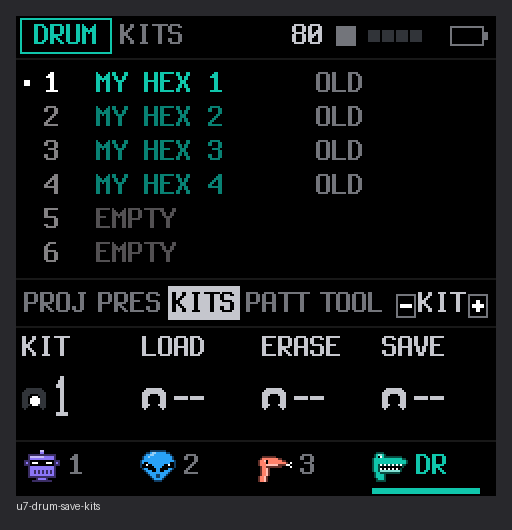
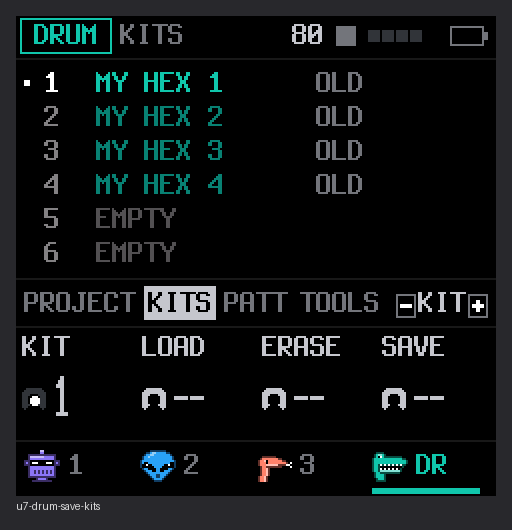
U6 (drum part): on the drum voice SAVE > PRESETS points to KITS (the drums' SAVE: PROJECT KITS PATTERNS TOOLS); the drum voice selected on a synth voice's PRESETS or USER lands on KITS
Claude-Session: https://claude.ai/code/session_01XcKDzzW9aw58RdBnowjoVw

Changed region(s): [[0.1562, 0.5132, 0.75, 0.6038]]

diff --git a/tests/ui_pages_test.c b/tests/ui_pages_test.c
@@ -5364,8 +5364,8 @@ int main(int argc, char **argv)
         check(pkit.base == kit_src(8) && kit_changed() && pkit.s[2].snd[7] == 20u, "w12: SAVE + OCT-: the changed kit back, its edit in it");
         /* SAVE > KITS */
         frames(40);                                       /* (the knobs wait a moment after a layer: #39) */
-        tap(B_SAVE); tap(B_SAVE); tap(B_SAVE); frames(40);
-        check(cur_cat() == CT_KITS, "w12: SAVE three times: KITS (after PROJECT, PRESETS; U7: no USER on the drums)");
+        tap(B_SAVE); tap(B_SAVE); frames(40);
+        check(cur_cat() == CT_KITS, "w12: SAVE twice: KITS (after PROJECT; U6: PRESETS is KITS on the drums, U7: no USER)");
         {   /* (review 26 Nov, U7, Ben's picker "Skip USER on drums") SAVE's walk on the drum voice leaves USER out; a synth
              * voice's keeps it */
             uint32_t j2, user = 0, ng2;
@@ -5377,8 +5377,21 @@ int main(int argc, char **argv)
             for (j2 = 0; j2 < ng2 + 1u; j2++) { tap(B_SAVE); frames(2); user += cur_cat() == CT_USER; }
             check(user >= 1u, "U7: ... a synth voice's SAVE still has USER");
             track_select(TRK_DRUM); frames(2);
-            go_home(); frames(40); tap(B_SAVE); tap(B_SAVE); tap(B_SAVE); frames(40);
+            go_home(); frames(40); tap(B_SAVE); tap(B_SAVE); frames(40);
             ui.force = 1; frame(); ppm("u7-drum-save-kits");
+            {   /* (review 26 Nov, U6, Ben's picker "One home each") on the drums SAVE > PRESETS points to KITS: one place
+                 * under SAVE for whole kits; a synth voice's PRESETS (or USER) with the drums then selected: KITS */
+                uint32_t j3, pres = 0, ng3, okk = 1, pp = NPAGES;
+                const uint8_t *g3 = nav_group(B_SAVE, &ng3);
+                for (j3 = 0; j3 < ng3; j3++) pres += g3[j3] == CT_PRESETS || g3[j3] == CT_USER;
+                for (j3 = 0; j3 < NPAGES; j3++) if (PAGES[j3].cat == CT_PRESETS) pp = j3;
+                nav_go(CT_PRESETS, 0); frames(2); okk &= cur_cat() == CT_KITS;
+                track_select(0); frames(2); nav_go(CT_PRESETS, 0); frames(2); okk &= ui.page == pp;
+                track_select(TRK_DRUM); frames(2); okk &= cur_cat() == CT_KITS;
+                track_select(0); frames(2); nav_go(CT_USER, 0); frames(2); okk &= cur_cat() == CT_USER;
+                track_select(TRK_DRUM); frames(2); okk &= cur_cat() == CT_KITS;
+                check(!pres && okk, "U6: the drums' SAVE: PROJECT KITS PATTERNS TOOLS; PRESETS points to KITS (from a synth voice's PRESETS or USER too)");
+            }
         }
         ui.force = 1; frame(); ppm("w12-save-kits");
         encs[panel.enc[EN_K4]] = 1; frame();

diff --git a/firmware/src/ui_nav.c b/firmware/src/ui_nav.c
@@ -35,9 +35,11 @@ static const uint8_t NAV_DRUM[NB][6] = {               /* the drum voice, parall
     [B_SEQ] = {CT_TRIG, CT_PATT, CT_PATTS},             /* (wave 10, Ben: "in charge of patterns") */
     [B_ARP] = {CT_CHROM},
     [B_GLO] = {CT_GLOBAL, CT_SYSTEM, CT_MIDI, CT_DEVICE},
-    [B_SAVE] = {CT_PROJ, CT_PRESETS, CT_KITS, CT_SPATT, CT_TOOLS},   /* (wave 12: KITS; the bank: PROJECT first. Review 26
-                                                         * Nov, Ben's picker "Skip USER on drums": user presets are the synth
-                                                         * voices', the drums' walk leaves USER out) */
+    [B_SAVE] = {CT_PROJ, CT_KITS, CT_SPATT, CT_TOOLS},  /* (wave 12: KITS; the bank: PROJECT first. Review 26 Nov, Ben's
+                                                         * pickers "Skip USER on drums": user presets are the synth voices', the
+                                                         * drums' walk leaves USER out; "One home each": on the drums SAVE >
+                                                         * PRESETS points to KITS, whole kits load from one place under SAVE,
+                                                         * besides HOME's PRESETS knob) */
     [B_HOME] = {CT_HOME, CT_SAVER},
 };
 static const char *const CT_NAME[CT_N] = {
@@ -164,6 +166,8 @@ static void nav_go(uint32_t c, uint32_t k)
     if (c != CT_STUT)
         stl_leave();                                    /* (wave 14: another category: the lane's screen goes, as any page) */
     grid = nav_grid();
+    if (drum && (c == CT_PRESETS || c == CT_USER))      /* (review 26 Nov) the drums' PRESETS is KITS; no USER */
+        c = CT_KITS, k = 0;
     if (c != CT_SAVER)
         vis_on = 0;
     if (drum && c != CT_CHROM && drum_keys == DK_CHROM)

diff --git a/firmware/src/ui.c b/firmware/src/ui.c
@@ -389,6 +389,15 @@ static void page_fix(void)
     int32_t st = fam_stage(fam), d;
     if (ui.home || page_shown(&PAGES[i]))
         return;
+    if (is_drum(TSEL) && (PAGES[i].graph == GR_BROWSE || PAGES[i].graph == GR_USER)) {   /* (review 26 Nov) the drum voice
+                                                         * selected on SAVE > PRESETS or USER (a synth voice's): KITS, the
+                                                         * drums' place for whole kits under SAVE */
+        for (k = 0; k < NPAGES && PAGES[k].cat != CT_KITS; k++)
+            ;
+        if (k < NPAGES)
+            page_go(k);
+        return;
+    }
     if (st >= 0 && is_drum(TSEL)) {                   /* (wave 8) the drum voice on a voice's sound page: its drum screen,
                                                          * the same kind of page (ENV: AMP, MOD: LFO, FX: its FX tab) */
         drum_screen_open();

diff --git a/firmware/src/params.c b/firmware/src/params.c
@@ -672,6 +672,9 @@ static int page_shown(const page_t *pg)
     if (fam_stage(pg->fam) >= 0)                     /* (wave 8) the chain is the synth voices'; the drum voice's pages are
                                                          * the drum screen's (SRC FLTR AMP LFO FX: ui_drum.c) */
         return !is_drum(TSEL);
+    if (is_drum(TSEL) && (pg->graph == GR_BROWSE || pg->graph == GR_USER))
+        return 0;                                    /* (review 26 Nov, "One home each", "Skip USER on drums": the drums'
+                                                         * SAVE > PRESETS is KITS, no USER; ui.c page_fix lands on KITS) */
     return pg->fam != FAM_DRM;                       /* (the drum screen's FX tab only: no button opens them) */
 }
 /* (wave 4) knob k's parameter id on page pg for the selected track: the OSC page's macros M1 .. M5 (vtype.c) as the
